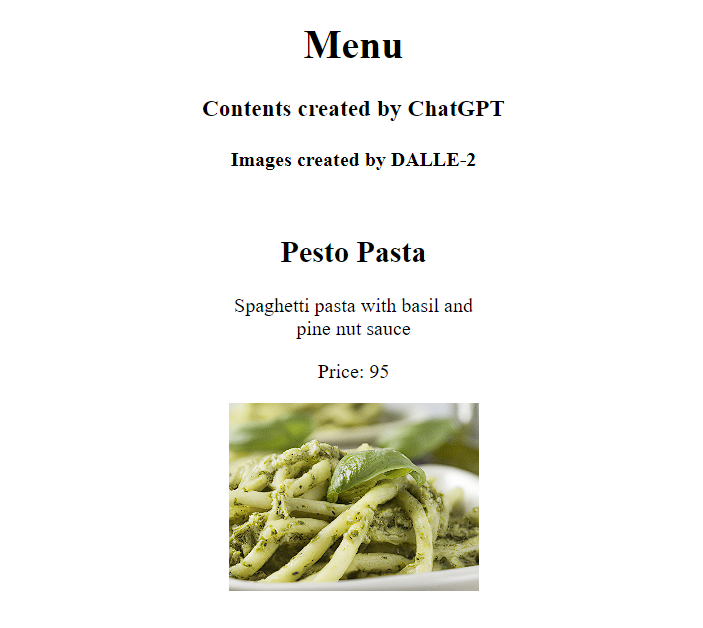
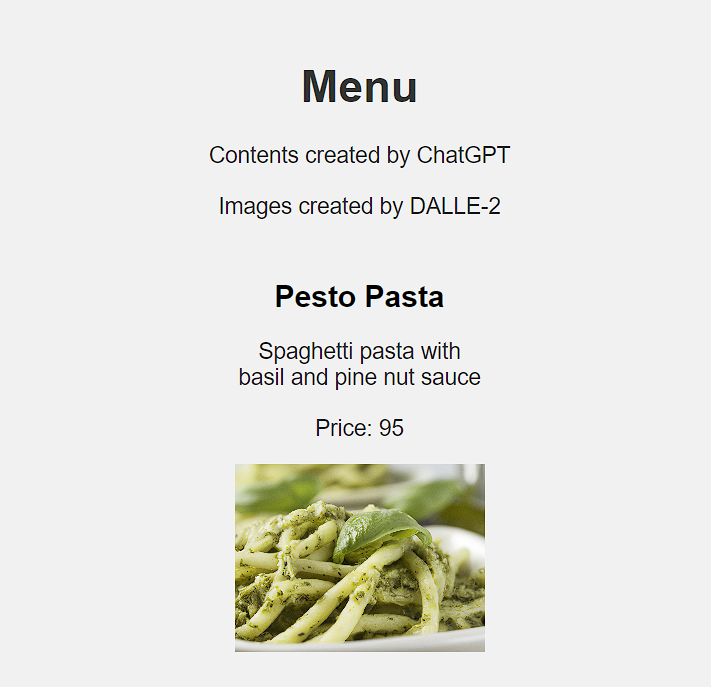
more beautiful page

Changed region(s): [[0.3286, 0.3631, 0.6871, 0.9682], [0.2688, 0.0303, 0.7169, 0.3328]]

diff --git a/catalogue/templates/index.html b/catalogue/templates/index.html
@@ -1,16 +1,38 @@
 <!DOCTYPE html>
 <html>
   <head>
+    <meta charset="UTF-8">
     <style>
+      /* Add CSS styling here */
+      body {
+        background-color: #F1F1F1;
+        font-family: Arial, sans-serif;
+        text-align: center;
+      }
+      h1 {
+        color: #333;
+        font-size: 36px;
+        margin-top: 50px;
+        text-align: center;
 
-       h1 {
-      text-align: center;
-       }
+      }
+      p {
+        color: #333;
+        font-size: 18px;
+        margin-top: 20px;
+      }
+
        h3 {
-      text-align: center;
+         color: #333;
+        font-size: 36px;
+        margin-top: 50px;
+        text-align: center;
        }
        h4 {
-      text-align: center;
+              color: #333;
+        font-size: 36px;
+        margin-top: 50px;
+        text-align: center;
        }
       .item-container {
         display: flex;
@@ -32,8 +54,8 @@
   </head>
   <body>
     <h1>Menu</h1>
-    <h3>Contents created by ChatGPT</h3>
-    <h4>Images created by DALLE-2</h4>
+    <p>Contents created by ChatGPT</p>
+    <p>Images created by DALLE-2</p>
     <div class="item-container">
       {% for item in menu_items %}
         <div class="item">
